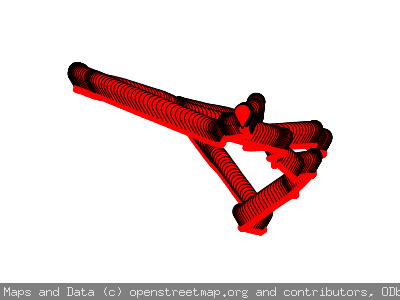
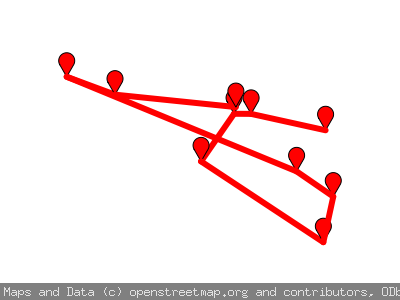
feat: init test for flight map

Changed region(s): [[0.12, 0.15, 0.87, 0.81]]

diff --git a/telemetry/telemetry_test.go b/telemetry/telemetry_test.go
@@ -10,7 +10,6 @@ func TestTelemetryVisualizations(t *testing.T) {
 	t.Logf("Running Telemetry Visualization Test Unit")
 	fmt.Println(color.Ize(color.Cyan, "Running Telemetry Visualization Test Unit"))
 
-	// Testing Parsing
 	filename := `../test-data/Airdata-Files/AirdataCSV.csv`
 
 	suite := NewDJI_TelemetryVisualizations(filename)
@@ -18,4 +17,17 @@ func TestTelemetryVisualizations(t *testing.T) {
 	suite.GenerateGraph(0)
 
 	t.Logf("[Telemetry Visualizations #1] Graph Display Case - PASS")
+}
+
+func TestFlightPathMap(t *testing.T) {
+	t.Logf("Running Flight Path Test Unit")
+	fmt.Println(color.Ize(color.Cyan, "Running Flight Path Map Test Unit"))
+	
+	filename := `../test-data/Airdata-Files/AirdataCSV.csv`
+
+	suite := NewDJI_Flight_Path_Map(filename, "flight-map.png")
+
+	suite.ExecuteFlightPathAnalysis()
+
+	t.Logf("[Telemetry Visualizations #1] Flight Map Case - PASS")
 }

diff --git a/telemetry/FlightPathMap.go b/telemetry/FlightPathMap.go
@@ -11,6 +11,7 @@ import (
   sm "github.com/flopp/go-staticmaps"
   "github.com/fogleman/gg"
   "github.com/golang/geo/s2"
+  // "fmt"
 )
 
 
@@ -79,7 +80,7 @@ func (parser *DJI_Flight_Path_Map) PrintGPSCoordinates() {
 			}
 		}
 
-		if (lat_val > 0.0 && lon_val > 0.0) {
+		if (lat_val != 0.0 && lon_val != 0.0) {
 			coor_val := Coordinate{Latitude: lat_val, Longitude: lon_val}
 			coors = append(coors, coor_val)
 		}
@@ -93,8 +94,8 @@ func GenerateMapOutput(coors []Coordinate, outputPath string) {
 		outputPath = "flight-path-map.png"
 	}
 
-	if len(coors) > 40 {
-		coors = downsampleCoordinates(coors, 40)
+	if len(coors) > 10 {
+		coors = downsampleCoordinates(coors, 10)
 	}
 
 	check := helpers.CheckFileFormat(outputPath, ".png")
